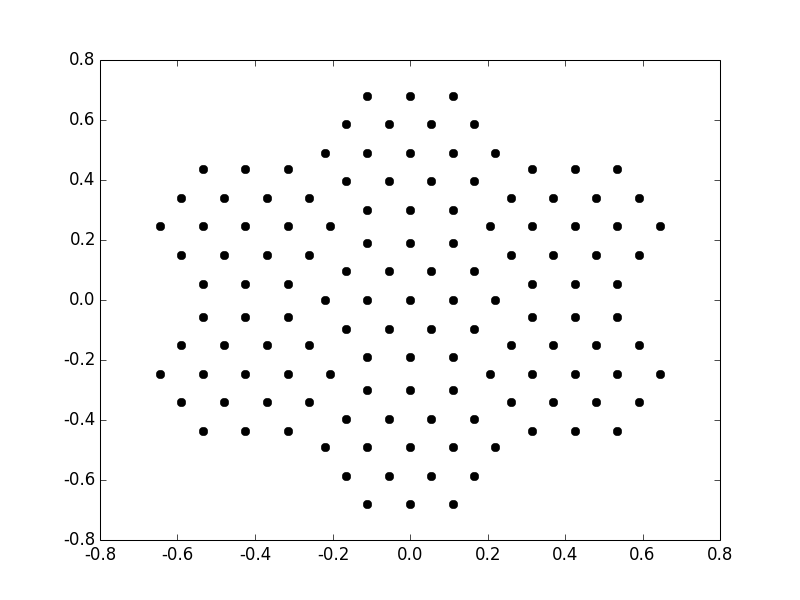
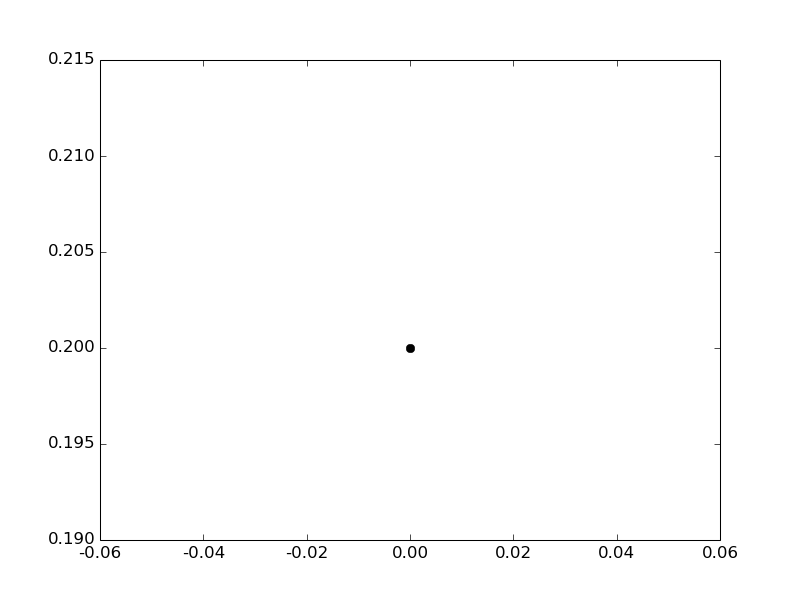
Begin singular capillary re-research
- plots for single capillary, separated reflection-wise

diff --git a/main.py b/main.py
@@ -21,16 +21,16 @@ import xrt.backends.raycing.run as rr
 def create_lens():
     """ Wrapped lens creation """
     # Lens parameters needed for capillary shape calculations
-    # y_settings = {'y0': 0.0, 'y1': 40.0,\
-    #               'y2': 140.0, 'yf': 155.0,\
-    #               'ym': 88.0}
-    # D_settings = {'Din': 4.5, 'Dmax': 8.0, 'Dout': 2.4}
+    y_settings = {'y0': 0.0, 'y1': 40.0,\
+                  'y2': 140.0, 'yf': 155.0,\
+                  'ym': 88.0}
+    D_settings = {'Din': 4.5, 'Dmax': 8.0, 'Dout': 2.4}
 
     # Second lens
-    y_settings = {'y0': 0.0, 'y1': 25.0,\
-                  'y2': 91.5, 'yf': 94.0,\
-                  'ym': 55.0}
-    D_settings = {'Din': 2.75, 'Dmax': 4.4, 'Dout': 1.1}
+    # y_settings = {'y0': 0.0, 'y1': 25.0,\
+    #               'y2': 91.5, 'yf': 94.0,\
+    #               'ym': 55.0}
+    # D_settings = {'Din': 2.75, 'Dmax': 4.4, 'Dout': 1.1}
 
     # This is used to control capillaries' curvature
     mGlass  = rm.Material(('Si', 'O'), quantities=(1, 2), rho=2.2)
@@ -38,8 +38,10 @@ def create_lens():
     lens = lp.PolyCapillaryLens(y_settings=y_settings,\
                                 D_settings=D_settings,\
                                 material=mGold)
-    # structure = st.Singular(0.002, 0.5, 0.5)
-    structure = st.HexStructure(rIn = 0.05)
+
+    # Distribution of capillaries in the XZ plain
+    structure = st.Singular(0.2, 0.0, 0.2)
+    # structure = st.HexStructure(rIn = 0.05)
 
     # Save structure
     structure.plot('plots/structure')
@@ -49,7 +51,11 @@ def create_lens():
 
 def create_beam(dirname):
     """ Generates csv files filled with photons inside the dirname directory """
-    # Set stuff above
+    # Create folder if necessary
+    if not os.path.exists(dirname):
+        os.makedirs(dirname)
+
+    # Prepare lens and capillaries within
     lens = create_lens()
     caps = lens.get_capillaries()
 
@@ -57,11 +63,11 @@ def create_beam(dirname):
     setup = fl.MultipleCapillariesFittedSource()
     setup.set_capillaries(caps)
     # Number of photons per run per capillary
-    setup.set_nrays(1000)
+    setup.set_nrays(100000)
     # Number of avaiable cores
-    setup.set_processes(2)
+    setup.set_processes(8)
     # Number of runs
-    setup.set_repeats(16)
+    setup.set_repeats(256)
     # Photon storage dirctory
     setup.set_folder(dirname)
 
@@ -133,5 +139,5 @@ if __name__ == '__main__':
     """ python main.py """
 
     # Choose path for storage
-    directory = 'lens_2_tests'
-    show_or_create(directory)
+    directory = 'remove_me_tests'
+    create_beam(directory)
